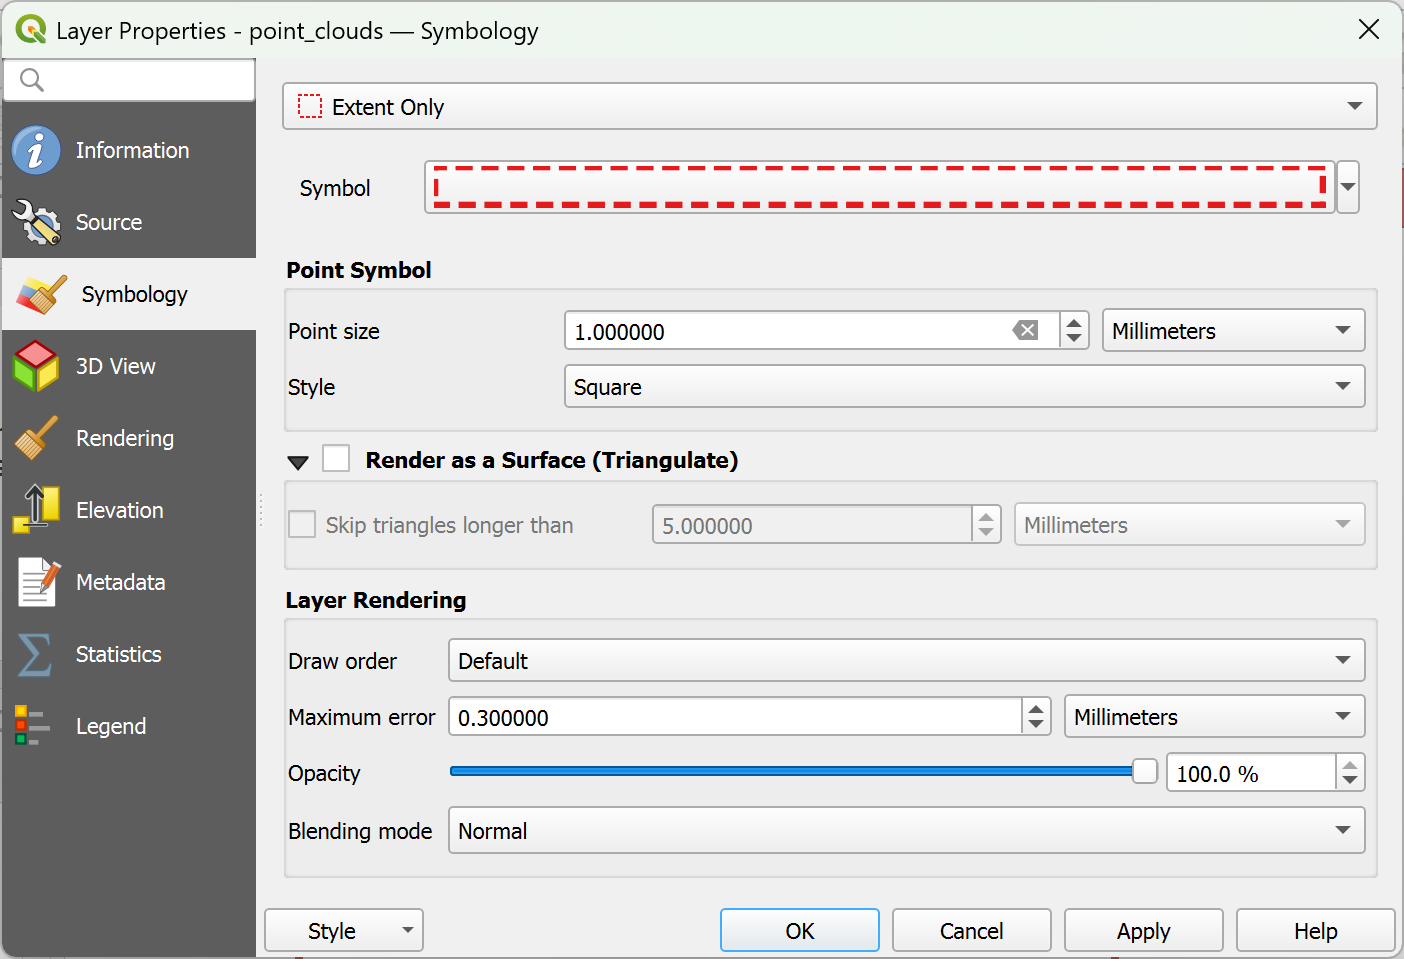
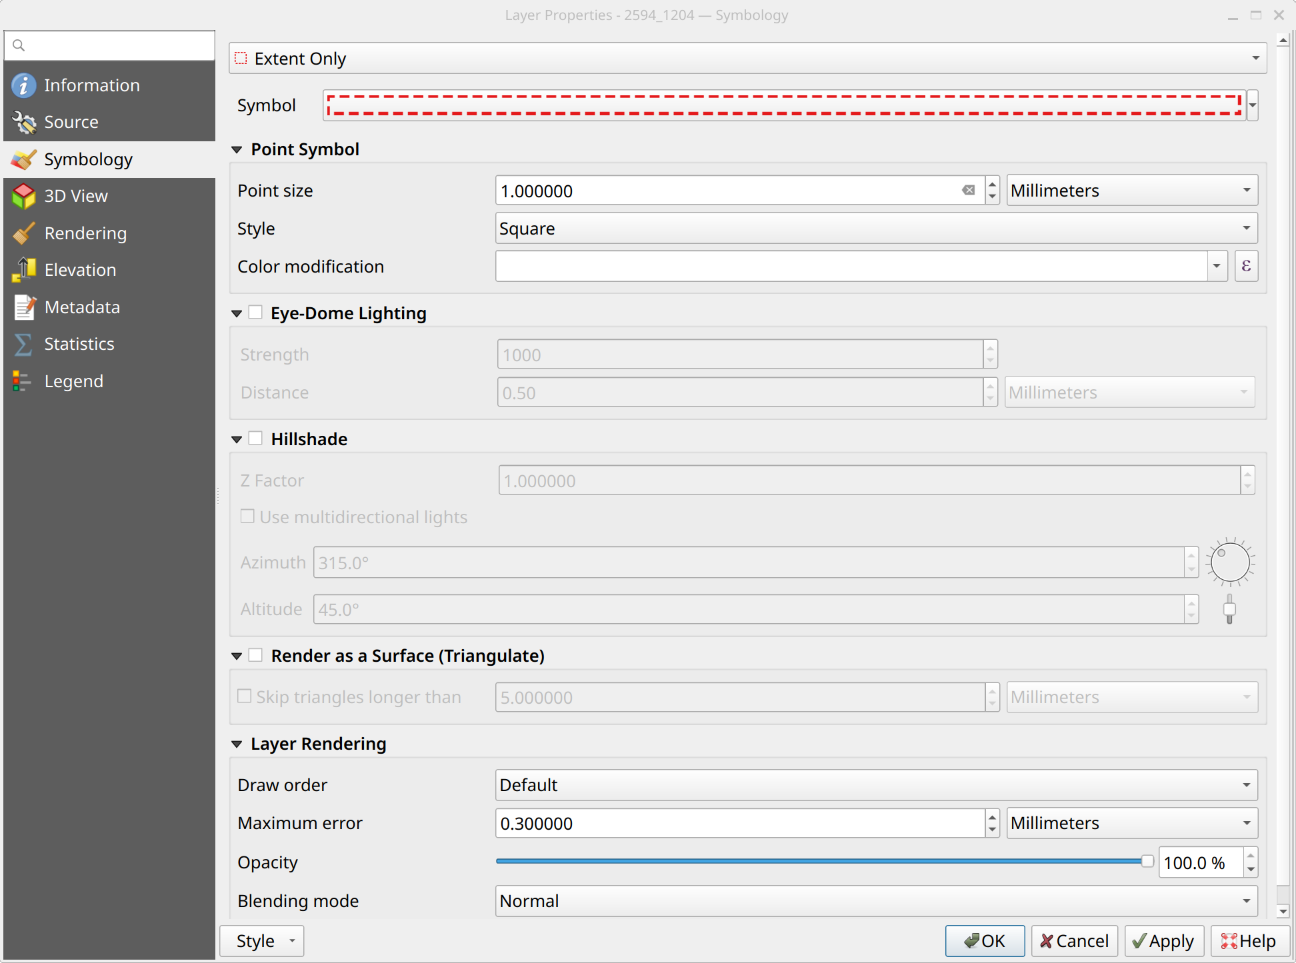
Screenshot update plus indentation, option name and order

diff --git a/docs/user_manual/working_with_point_clouds/point_clouds.rst b/docs/user_manual/working_with_point_clouds/point_clouds.rst
@@ -473,9 +473,9 @@ This uses the same shading engine as the :ref:`Global Map Shading <global_map_sh
 to this layer.
 Following parameters can be controlled:
 
-  * :guilabel:`Strength`: increases the contrast, allowing for better depth perception
-  * :guilabel:`Distance`: represents the distance of the used pixels off the center pixel
-    and has the effect of making edges thicker.
+* :guilabel:`Strength`: increases the contrast, allowing for better depth perception
+* :guilabel:`Distance`: represents the distance of the used pixels off the center pixel
+  and has the effect of making edges thicker.
 
 .. _hillshade_pointcloud:
 
@@ -492,16 +492,16 @@ project properties avoids issues where the global shading blends into other
 layers stacked above or below the point cloud.
 Following parameters can be controlled:
 
-  * :guilabel:`Z Factor`: scaling factor applied to the
-    elevation values before computing the shading (the default is ``1``)
-  * :guilabel:`Azimuth`: the horizontal direction of the light source, in
-    degrees measured clockwise from north. Ignored when :guilabel:`Multidirectional`
-    is checked (the default is ``315°``)
-  * :guilabel:`Altitude`: the elevation angle of the light source, in degrees,
-    where ``0°`` places the light on the horizon and ``90°`` places it directly overhead (the default is ``45°``)
-  * |checkbox| :guilabel:`Multidirectional`: combines light from several directions
-    instead of a single azimuth, reducing directional bias on slopes facing away
-    from the light
+* :guilabel:`Z Factor`: scaling factor applied to the elevation values
+  before computing the shading (the default is ``1``)
+* |checkbox| :guilabel:`Use multidirectional lights`: combines light from several directions
+  instead of a single azimuth, reducing directional bias on slopes facing away from the light
+* :guilabel:`Azimuth`: the horizontal direction of the light source,
+  in degrees measured clockwise from north.
+  Ignored when :guilabel:`Use multidirectional lights` is checked (the default is ``315°``)
+* :guilabel:`Altitude`: the elevation angle of the light source, in degrees,
+  where ``0°`` places the light on the horizon and ``90°`` places it directly overhead
+  (the default is ``45°``)
 
 .. _pointcloud_rendersurface:
 
